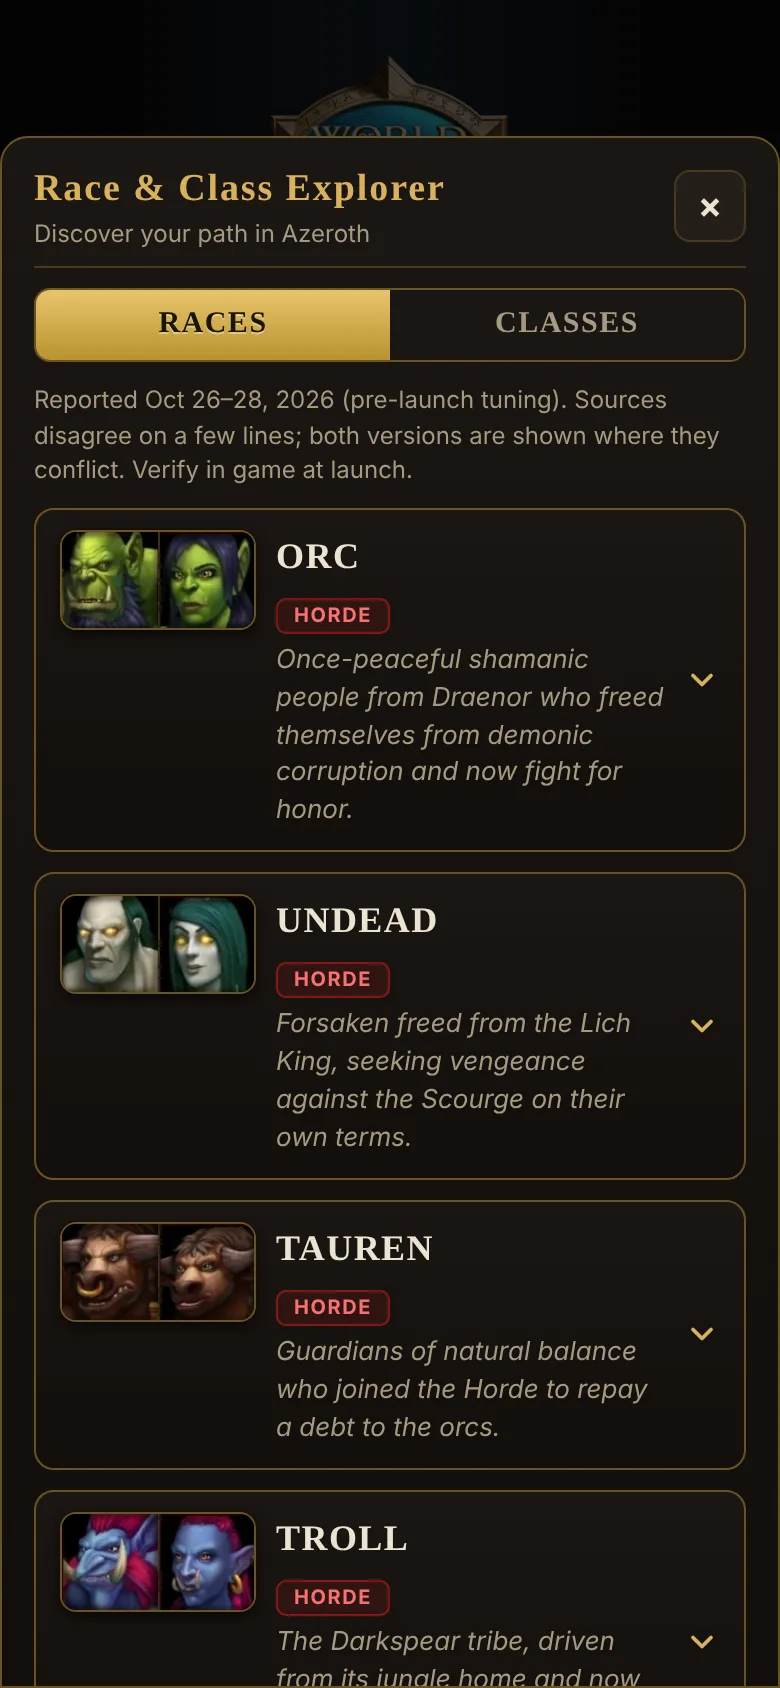
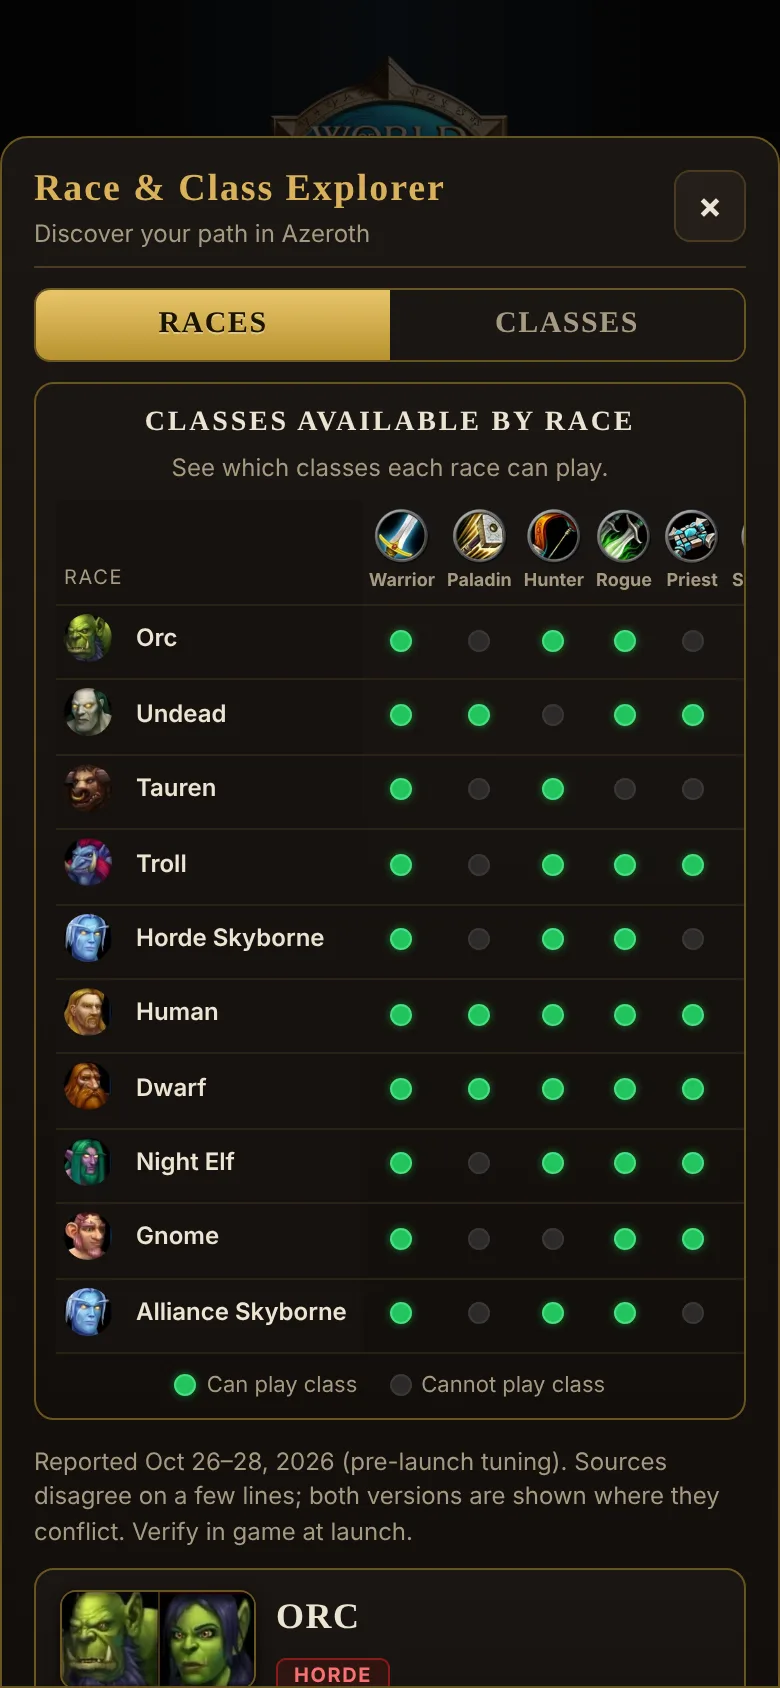
Explorer: race/class availability matrix in both views, role dots on spec rows, race tiles on class cards
Claude-Session: https://claude.ai/code/session_01D5WRtL93QMjdNmrGVJvuEs

diff --git a/DuoPlanner/index.html b/DuoPlanner/index.html
@@ -248,6 +248,39 @@ select,.bar select{background:linear-gradient(180deg,#1f1915,#14100d) url("data:
 .rp img+img{border-left:1px solid #3d2f16}
 .rp.sm img{width:26px;height:26px} .rp.sm{border-radius:5px}
 
+/* ===== Availability matrix ===== */
+.mbox{border:1px solid #6b5422;border-radius:10px;background:linear-gradient(180deg,#1b1612,#120e0b);padding:10px 0 8px;margin-bottom:12px}
+.mbox h3{text-align:center;font-size:14px;letter-spacing:.1em;text-transform:uppercase;color:var(--fg);margin:0 10px 2px}
+.mbox .msub{text-align:center;font-size:12px;color:var(--muted);margin:0 10px 8px}
+.mscroll{overflow-x:auto;-webkit-overflow-scrolling:touch;padding:0 10px}
+.mtx{border-collapse:separate;border-spacing:0;min-width:100%;font-size:12px}
+.mtx th,.mtx td{padding:4px 3px;text-align:center;border-bottom:1px solid #2a2117}
+.mtx thead th{vertical-align:bottom;padding-bottom:6px}
+.mtx thead th img{width:28px;height:28px;border-radius:50%;display:block;margin:0 auto 2px}
+.mtx thead th .lbl{font-size:9px;color:var(--muted);line-height:1.1;display:block;max-width:44px;margin:0 auto;white-space:normal}
+.mtx th.rh{text-align:left;position:sticky;left:0;background:#17120f;z-index:1;white-space:nowrap;padding-left:4px;padding-right:8px;font-weight:600;color:var(--fg)}
+.mtx th.rh img{width:24px;height:24px;border-radius:50%;vertical-align:middle;margin-right:6px}
+.mtx th.rh button,.mtx thead th button{all:unset;cursor:pointer;display:inline-flex;align-items:center;gap:6px}
+.mtx thead th button{flex-direction:column;gap:2px}
+.mtx th.rh button:focus-visible,.mtx thead th button:focus-visible{outline:2px solid var(--gold);border-radius:4px}
+.dot{display:inline-block;width:11px;height:11px;border-radius:50%;background:#2c2a2a;border:1px solid #3a3836}
+.dot.on{background:#22c55e;border-color:#4ade80;box-shadow:0 0 5px #22c55e88}
+.mtx tr.hl th.rh,.mtx tr.hl td{background:#2a2217}
+.mtx td.hl{background:#2a2217}
+.mtx .fsep{border-top:2px solid #4a3a22}
+.mtx td.fsepc,.mtx th.fsepc{border-left:2px solid #4a3a22}
+.mleg{display:flex;justify-content:center;gap:16px;font-size:11px;color:var(--muted);margin-top:8px}
+.mleg span{display:inline-flex;align-items:center;gap:5px}
+.rdot{display:inline-flex;align-items:center;justify-content:center;width:18px;height:18px;border-radius:50%;flex-shrink:0;vertical-align:middle}
+.rdot svg{width:11px;height:11px}
+.rdot.Tank{background:#1e4f8f;color:#bfdbfe} .rdot.Healer{background:#0f6b4b;color:#bbf7d0} .rdot.Melee,.rdot.DPS{background:#8b1f1f;color:#fecaca} .rdot.Ranged{background:#8b1f1f;color:#fecaca}
+.spec .sn{gap:8px}
+
+.rgrid{display:grid;grid-template-columns:repeat(auto-fill,minmax(84px,1fr));gap:6px}
+.rtile{display:flex;flex-direction:column;align-items:center;gap:4px;padding:6px 4px;background:#0f0c0a;border:1px solid #4a3a22;border-radius:8px;color:var(--fg);font:600 11px var(--body);cursor:pointer;text-align:center}
+.rtile img{width:48px;height:48px;border-radius:8px;object-fit:cover}
+.rtile .fb{font-size:8px;padding:1px 5px}
+.rtile:focus-visible{outline:2px solid var(--gold)}
 footer{margin-top:24px;color:var(--muted);font-size:12px;text-align:center}
 </style>
 </head>
@@ -314,6 +347,7 @@ footer{margin-top:24px;color:var(--muted);font-size:12px;text-align:center}
 <div class="mode"><button type="button" id="mDuo" class="on">DUO</button><button type="button" id="mSolo">SOLO</button></div>
 <div class="modal" id="raceModal" hidden><div class="sheet" role="dialog" aria-label="Race and Class Explorer"><div class="head"><div style="flex:1"><h2 style="margin:0">Race &amp; Class Explorer</h2><div class="sub" style="font-size:12px">Discover your path in Azeroth</div></div><button type="button" class="x" id="closeRaces" aria-label="Close">×</button></div>
 <div class="mode xtog"><button type="button" id="xRaces" class="on">RACES</button><button type="button" id="xClasses">CLASSES</button></div>
+<div id="matrixBox"></div>
 <p class="note" id="raceNote"></p>
 <div id="raceList"></div></div></div></div>
 
@@ -535,29 +569,84 @@ const SPECIMG={};Object.keys(SPECS).forEach(s=>{SPECIMG[s]=SPECS[s].img});
 function specPortrait(cls,spec){const n=spec==="Feral Combat"?"Feral Cat Druid":`${spec} ${cls}`;const u=SPECS[n]&&SPECS[n].icon;return u?`<img src="${u}" alt="" loading="lazy" style="--pc:${CLASSCOL[cls]}">`:`<span></span>`}
 function roleBadge(r){const k=r.includes("/")?"Mixed":r;return `<span class="rb ${k}">${r}</span>`}
 function classAccordion(cls,opts){const c=XP.classes[cls];
-  return `<div class="cls"><button type="button" class="xhead" data-acc>${`<img class="ci big" src="${ICON}${CICON[cls]}.webp" alt="" style="--pc:${CLASSCOL[cls]};width:36px;height:36px">`}<h3 style="color:${CLASSCOL[cls]}">${cls}</h3>${c.roles.map(roleBadge).join(" ")}${CHEV}</button><div class="xbody">${opts&&opts.desc?`<p class="cdesc">${c.desc}</p>`:""}${c.specs.map(([n,r,d])=>`<div class="spec">${specPortrait(cls,n)}<div><div class="sn">${short(n)} ${roleBadge(r)}</div><div class="sd">${d}</div></div></div>`).join("")}</div></div>`}
+  return `<div class="cls"><button type="button" class="xhead" data-acc>${`<img class="ci big" src="${ICON}${CICON[cls]}.webp" alt="" style="--pc:${CLASSCOL[cls]};width:36px;height:36px">`}<h3 style="color:${CLASSCOL[cls]}">${cls}</h3>${c.roles.map(roleBadge).join(" ")}${CHEV}</button><div class="xbody">${opts&&opts.desc?`<p class="cdesc">${c.desc}</p>`:""}${c.specs.map(([n,r,d])=>`<div class="spec">${specPortrait(cls,n)}<div><div class="sn">${short(n)} ${roleDots(cls,n,r)}</div><div class="sd">${d}</div></div></div>`).join("")}</div></div>`}
 function raceCard(r,open){
   return `<div class="xcard ${open?"open":""}" data-race="${esc(r.race)}"><button type="button" class="xhead" data-acc>${racePair(r.race)}<div style="flex:1;min-width:0"><h3 style="font-family:var(--display)">${esc(r.race)}</h3><div style="margin:3px 0 4px"><span class="fb ${r.faction}">${r.faction}</span></div><div class="sub">${XP.raceDesc[r.race]||""}</div></div>${CHEV}</button>
   <div class="xbody"><div class="xsec">Racial traits</div><ul class="traits">${r.racials.map(([n,d])=>`<li><b>${esc(n)}</b>${esc(d)}</li>`).join("")}</ul>
   <div class="xsec">Available classes (${r.classes.length})</div>${XP.classOrder.filter(c=>r.classes.includes(c)).map(c=>classAccordion(c)).join("")}</div></div>`}
-function classCard(cls){const c=XP.classes[cls];const races=ALLRACES.filter(r=>r.classes.includes(cls));
-  return `<div class="xcard" data-class="${cls}"><button type="button" class="xhead" data-acc><img class="ci big" src="${ICON}${CICON[cls]}.webp" alt="" style="--pc:${CLASSCOL[cls]}"><div style="flex:1;min-width:0"><h3 style="color:${CLASSCOL[cls]}">${cls}</h3><div style="margin-top:3px">${c.roles.map(roleBadge).join(" ")}</div></div>${CHEV}</button>
-  <div class="xbody"><p class="cdesc">${c.desc}</p><div class="xsec">Specializations</div>${c.specs.map(([n,r,d])=>`<div class="spec">${specPortrait(cls,n)}<div><div class="sn">${short(n)} ${roleBadge(r)}</div><div class="sd">${d}</div></div></div>`).join("")}
-  <div class="xsec">Playable races (${races.length})</div>${races.map(r=>`<button type="button" class="racerow" data-goto="${esc(r.race)}">${racePair(r.race,"sm")}${esc(r.race)}<span class="fb ${r.faction}">${r.faction}</span></button>`).join("")}</div></div>`}
+function classCard(cls,open){const c=XP.classes[cls];const races=ALLRACES.filter(r=>r.classes.includes(cls));
+  return `<div class="xcard ${open?"open":""}" data-class="${cls}"><button type="button" class="xhead" data-acc><img class="ci big" src="${ICON}${CICON[cls]}.webp" alt="" style="--pc:${CLASSCOL[cls]}"><div style="flex:1;min-width:0"><h3 style="color:${CLASSCOL[cls]}">${cls}</h3><div style="margin-top:3px">${c.roles.map(roleBadge).join(" ")}</div></div>${CHEV}</button>
+  <div class="xbody"><p class="cdesc">${c.desc}</p><div class="xsec">Specializations</div>${c.specs.map(([n,r,d])=>`<div class="spec">${specPortrait(cls,n)}<div><div class="sn">${short(n)} ${roleDots(cls,n,r)}</div><div class="sd">${d}</div></div></div>`).join("")}
+  <div class="xsec">Playable races (${races.length})</div><div class="rgrid">${races.map(r=>`<button type="button" class="rtile" data-goto="${esc(r.race)}"><img src="${RACEIMG}${RIMG[r.race]}-m.webp" alt=""><span>${shortRace(r.race)}</span><i class="fb ${r.faction}">${r.faction}</i></button>`).join("")}</div></div></div>`}
+const RDSVG={Tank:'<svg viewBox="0 0 24 24" fill="currentColor"><path d="M12 2l8 3v6c0 5-3.5 9.5-8 11-4.5-1.5-8-6-8-11V5z"/></svg>',Healer:'<svg viewBox="0 0 24 24" fill="currentColor"><path d="M9 3h6v6h6v6h-6v6H9v-6H3V9h6z"/></svg>',Melee:'<svg viewBox="0 0 24 24" fill="none" stroke="currentColor" stroke-width="3" stroke-linecap="round"><path d="M4 20L18 6M15 6h3v3M6 16l2 2"/></svg>',Ranged:'<svg viewBox="0 0 24 24" fill="none" stroke="currentColor" stroke-width="2.6" stroke-linecap="round"><path d="M4 20L20 4M20 4h-7M20 4v7M4 20c6-1 10-5 11-11"/></svg>'};
+function specRole(cls,spec,role){ if(role==="Healer"||role==="Tank")return [role]; if(role.includes("/"))return ["Tank","Melee"]; const n=`${spec} ${cls}`;return [SPECS[n]?SPECS[n].role:"Melee"]}
+function roleDots(cls,spec,role){return specRole(cls,spec,role).map(r=>`<span class="rdot ${r}" title="${r}">${RDSVG[r]}</span>`).join("")}
+function raceIcon(r,sz){const k=RIMG[r];return `<img src="${RACEIMG}${k}-m.webp" alt="" loading="lazy">`}
+function shortRace(r){return r.replace("Skyborne (Windshaper)","Horde Skyborne").replace("Skyborne (High Order)","Alliance Skyborne")}
+function can(r,c){return r.classes.includes(c)}
+function matrix(mode){
+  if(mode==="races"){
+    const head=XP.classOrder.map(c=>`<th><button type="button" data-mclass="${c}" aria-label="${c}"><img src="${ICON}${CICON[c]}.webp" alt=""><span class="lbl">${c}</span></button></th>`).join("");
+    const rows=ALLRACES.map((r,i)=>`<tr data-mrace="${esc(r.race)}" class="${i===RACES.Horde.length?"fsep":""}"><th class="rh"><button type="button" data-mrace="${esc(r.race)}">${raceIcon(r.race)}${shortRace(r.race)}</button></th>${XP.classOrder.map(c=>`<td data-mclass="${c}"><span class="dot ${can(r,c)?"on":""}" aria-label="${can(r,c)?"can":"cannot"} play ${c}"></span></td>`).join("")}</tr>`).join("");
+    return `<div class="mbox"><h3>Classes available by race</h3><p class="msub">See which classes each race can play.</p><div class="mscroll"><table class="mtx"><thead><tr><th class="rh" style="font-weight:400;color:var(--muted);font-size:10px;letter-spacing:.08em">RACE</th>${head}</tr></thead><tbody>${rows}</tbody></table></div><div class="mleg"><span><i class="dot on"></i>Can play class</span><span><i class="dot"></i>Cannot play class</span></div></div>`;
+  }
+  const head=ALLRACES.map((r,i)=>`<th class="${i===RACES.Horde.length?"fsepc":""}"><button type="button" data-mrace="${esc(r.race)}" aria-label="${esc(r.race)}">${raceIcon(r.race)}<span class="lbl">${shortRace(r.race)}</span></button></th>`).join("");
+  const rows=XP.classOrder.map(c=>`<tr data-mclass="${c}"><th class="rh"><button type="button" data-mclass="${c}"><img src="${ICON}${CICON[c]}.webp" alt="">${c}</button></th>${ALLRACES.map((r,i)=>`<td class="${i===RACES.Horde.length?"fsepc":""}">${can(r,c)?`<button type="button" data-goto="${esc(r.race)}" aria-label="${esc(r.race)} can play ${c}" style="all:unset;cursor:pointer;display:inline-flex"><span class="dot on"></span></button>`:`<span class="dot" aria-label="${esc(r.race)} cannot play ${c}"></span>`}</td>`).join("")}</tr>`).join("");
+  return `<div class="mbox"><h3>Races that can play each class</h3><p class="msub">See which races can choose each class.</p><div class="mscroll"><table class="mtx"><thead><tr><th class="rh" style="font-weight:400;color:var(--muted);font-size:10px;letter-spacing:.08em">CLASS</th>${head}</tr></thead><tbody>${rows}</tbody></table></div><div class="mleg"><span><i class="dot on"></i>Race can play this class</span><span><i class="dot"></i>Cannot play this class</span></div></div>`;
+}
 state.xview="races";
-function renderExplorer(openRace){
+function renderExplorer(openRace,openClass){
   const list=document.getElementById("raceList");
+  document.getElementById("matrixBox").innerHTML=matrix(state.xview);
   document.getElementById("xRaces").classList.toggle("on",state.xview==="races");document.getElementById("xClasses").classList.toggle("on",state.xview!=="races");
   document.getElementById("raceNote").textContent=state.xview==="races"?RACES.asof:"Nine classes, 27 specializations. Tap a class for its specs and every race that can play it; tap a race to jump to its racial traits.";
   list.className="grid";
-  list.innerHTML=state.xview==="races"?ALLRACES.map(r=>raceCard(r,r.race===openRace)).join(""):XP.classOrder.map(classCard).join("");
-  if(openRace){const el=list.querySelector(`[data-race="${CSS.escape(openRace)}"]`);if(el)el.scrollIntoView({block:"start"})}
+  list.innerHTML=state.xview==="races"?ALLRACES.map(r=>raceCard(r,r.race===openRace)).join(""):XP.classOrder.map(c=>classCard(c,c===openClass)).join("");
+  const tgt=openRace?list.querySelector(`[data-race="${CSS.escape(openRace)}"]`):openClass?list.querySelector(`[data-class="${CSS.escape(openClass)}"]`):null;
+  if(tgt)tgt.scrollIntoView({block:"start",behavior:"smooth"});
 }
+document.getElementById("matrixBox").addEventListener("click",e=>{
+  const g=e.target.closest("[data-goto]");if(g){state.xview="races";renderExplorer(g.dataset.goto);return}
+  const rb=e.target.closest("button[data-mrace]");if(rb){if(state.xview==="races"){const row=rb.closest("tr");document.querySelectorAll(".mtx tr.hl").forEach(x=>x.classList.remove("hl"));row.classList.add("hl");const card=document.querySelector(`#raceList [data-race="${CSS.escape(rb.dataset.mrace)}"]`);if(card){card.classList.add("open");card.scrollIntoView({block:"start",behavior:"smooth"})}}else{state.xview="races";renderExplorer(rb.dataset.mrace)}return}
+  const cb=e.target.closest("button[data-mclass]");if(cb){if(state.xview==="classes"){const row=cb.closest("tr");document.querySelectorAll(".mtx tr.hl").forEach(x=>x.classList.remove("hl"));row.classList.add("hl");const card=document.querySelector(`#raceList [data-class="${CSS.escape(cb.dataset.mclass)}"]`);if(card){card.classList.add("open");card.scrollIntoView({block:"start",behavior:"smooth"})}}else{document.querySelectorAll(".mtx td.hl").forEach(x=>x.classList.remove("hl"));document.querySelectorAll(`.mtx td[data-mclass="${CSS.escape(cb.dataset.mclass)}"]`).forEach(x=>x.classList.add("hl"));if(cb.dataset.again){state.xview="classes";renderExplorer(null,cb.dataset.mclass)}else{cb.dataset.again="1";setTimeout(()=>{delete cb.dataset.again},2500)}}}
+});
 document.getElementById("raceList").addEventListener("click",e=>{
-  const go=e.target.closest("[data-goto]");if(go){state.xview="races";renderExplorer(go.dataset.goto);return}
+  const go=e.target.closest("[data-goto]");if(go){const RDSVG={Tank:'<svg viewBox="0 0 24 24" fill="currentColor"><path d="M12 2l8 3v6c0 5-3.5 9.5-8 11-4.5-1.5-8-6-8-11V5z"/></svg>',Healer:'<svg viewBox="0 0 24 24" fill="currentColor"><path d="M9 3h6v6h6v6h-6v6H9v-6H3V9h6z"/></svg>',Melee:'<svg viewBox="0 0 24 24" fill="none" stroke="currentColor" stroke-width="3" stroke-linecap="round"><path d="M4 20L18 6M15 6h3v3M6 16l2 2"/></svg>',Ranged:'<svg viewBox="0 0 24 24" fill="none" stroke="currentColor" stroke-width="2.6" stroke-linecap="round"><path d="M4 20L20 4M20 4h-7M20 4v7M4 20c6-1 10-5 11-11"/></svg>'};
+function specRole(cls,spec,role){ if(role==="Healer"||role==="Tank")return [role]; if(role.includes("/"))return ["Tank","Melee"]; const n=`${spec} ${cls}`;return [SPECS[n]?SPECS[n].role:"Melee"]}
+function roleDots(cls,spec,role){return specRole(cls,spec,role).map(r=>`<span class="rdot ${r}" title="${r}">${RDSVG[r]}</span>`).join("")}
+function raceIcon(r,sz){const k=RIMG[r];return `<img src="${RACEIMG}${k}-m.webp" alt="" loading="lazy">`}
+function shortRace(r){return r.replace("Skyborne (Windshaper)","Horde Skyborne").replace("Skyborne (High Order)","Alliance Skyborne")}
+function can(r,c){return r.classes.includes(c)}
+function matrix(mode){
+  if(mode==="races"){
+    const head=XP.classOrder.map(c=>`<th><button type="button" data-mclass="${c}" aria-label="${c}"><img src="${ICON}${CICON[c]}.webp" alt=""><span class="lbl">${c}</span></button></th>`).join("");
+    const rows=ALLRACES.map((r,i)=>`<tr data-mrace="${esc(r.race)}" class="${i===RACES.Horde.length?"fsep":""}"><th class="rh"><button type="button" data-mrace="${esc(r.race)}">${raceIcon(r.race)}${shortRace(r.race)}</button></th>${XP.classOrder.map(c=>`<td data-mclass="${c}"><span class="dot ${can(r,c)?"on":""}" aria-label="${can(r,c)?"can":"cannot"} play ${c}"></span></td>`).join("")}</tr>`).join("");
+    return `<div class="mbox"><h3>Classes available by race</h3><p class="msub">See which classes each race can play.</p><div class="mscroll"><table class="mtx"><thead><tr><th class="rh" style="font-weight:400;color:var(--muted);font-size:10px;letter-spacing:.08em">RACE</th>${head}</tr></thead><tbody>${rows}</tbody></table></div><div class="mleg"><span><i class="dot on"></i>Can play class</span><span><i class="dot"></i>Cannot play class</span></div></div>`;
+  }
+  const head=ALLRACES.map((r,i)=>`<th class="${i===RACES.Horde.length?"fsepc":""}"><button type="button" data-mrace="${esc(r.race)}" aria-label="${esc(r.race)}">${raceIcon(r.race)}<span class="lbl">${shortRace(r.race)}</span></button></th>`).join("");
+  const rows=XP.classOrder.map(c=>`<tr data-mclass="${c}"><th class="rh"><button type="button" data-mclass="${c}"><img src="${ICON}${CICON[c]}.webp" alt="">${c}</button></th>${ALLRACES.map((r,i)=>`<td class="${i===RACES.Horde.length?"fsepc":""}">${can(r,c)?`<button type="button" data-goto="${esc(r.race)}" aria-label="${esc(r.race)} can play ${c}" style="all:unset;cursor:pointer;display:inline-flex"><span class="dot on"></span></button>`:`<span class="dot" aria-label="${esc(r.race)} cannot play ${c}"></span>`}</td>`).join("")}</tr>`).join("");
+  return `<div class="mbox"><h3>Races that can play each class</h3><p class="msub">See which races can choose each class.</p><div class="mscroll"><table class="mtx"><thead><tr><th class="rh" style="font-weight:400;color:var(--muted);font-size:10px;letter-spacing:.08em">CLASS</th>${head}</tr></thead><tbody>${rows}</tbody></table></div><div class="mleg"><span><i class="dot on"></i>Race can play this class</span><span><i class="dot"></i>Cannot play this class</span></div></div>`;
+}
+state.xview="races";renderExplorer(go.dataset.goto);return}
   const h=e.target.closest("[data-acc]");if(!h)return;h.parentElement.classList.toggle("open");
 });
-document.getElementById("xRaces").onclick=()=>{state.xview="races";renderExplorer()};
+document.getElementById("xRaces").onclick=()=>{const RDSVG={Tank:'<svg viewBox="0 0 24 24" fill="currentColor"><path d="M12 2l8 3v6c0 5-3.5 9.5-8 11-4.5-1.5-8-6-8-11V5z"/></svg>',Healer:'<svg viewBox="0 0 24 24" fill="currentColor"><path d="M9 3h6v6h6v6h-6v6H9v-6H3V9h6z"/></svg>',Melee:'<svg viewBox="0 0 24 24" fill="none" stroke="currentColor" stroke-width="3" stroke-linecap="round"><path d="M4 20L18 6M15 6h3v3M6 16l2 2"/></svg>',Ranged:'<svg viewBox="0 0 24 24" fill="none" stroke="currentColor" stroke-width="2.6" stroke-linecap="round"><path d="M4 20L20 4M20 4h-7M20 4v7M4 20c6-1 10-5 11-11"/></svg>'};
+function specRole(cls,spec,role){ if(role==="Healer"||role==="Tank")return [role]; if(role.includes("/"))return ["Tank","Melee"]; const n=`${spec} ${cls}`;return [SPECS[n]?SPECS[n].role:"Melee"]}
+function roleDots(cls,spec,role){return specRole(cls,spec,role).map(r=>`<span class="rdot ${r}" title="${r}">${RDSVG[r]}</span>`).join("")}
+function raceIcon(r,sz){const k=RIMG[r];return `<img src="${RACEIMG}${k}-m.webp" alt="" loading="lazy">`}
+function shortRace(r){return r.replace("Skyborne (Windshaper)","Horde Skyborne").replace("Skyborne (High Order)","Alliance Skyborne")}
+function can(r,c){return r.classes.includes(c)}
+function matrix(mode){
+  if(mode==="races"){
+    const head=XP.classOrder.map(c=>`<th><button type="button" data-mclass="${c}" aria-label="${c}"><img src="${ICON}${CICON[c]}.webp" alt=""><span class="lbl">${c}</span></button></th>`).join("");
+    const rows=ALLRACES.map((r,i)=>`<tr data-mrace="${esc(r.race)}" class="${i===RACES.Horde.length?"fsep":""}"><th class="rh"><button type="button" data-mrace="${esc(r.race)}">${raceIcon(r.race)}${shortRace(r.race)}</button></th>${XP.classOrder.map(c=>`<td data-mclass="${c}"><span class="dot ${can(r,c)?"on":""}" aria-label="${can(r,c)?"can":"cannot"} play ${c}"></span></td>`).join("")}</tr>`).join("");
+    return `<div class="mbox"><h3>Classes available by race</h3><p class="msub">See which classes each race can play.</p><div class="mscroll"><table class="mtx"><thead><tr><th class="rh" style="font-weight:400;color:var(--muted);font-size:10px;letter-spacing:.08em">RACE</th>${head}</tr></thead><tbody>${rows}</tbody></table></div><div class="mleg"><span><i class="dot on"></i>Can play class</span><span><i class="dot"></i>Cannot play class</span></div></div>`;
+  }
+  const head=ALLRACES.map((r,i)=>`<th class="${i===RACES.Horde.length?"fsepc":""}"><button type="button" data-mrace="${esc(r.race)}" aria-label="${esc(r.race)}">${raceIcon(r.race)}<span class="lbl">${shortRace(r.race)}</span></button></th>`).join("");
+  const rows=XP.classOrder.map(c=>`<tr data-mclass="${c}"><th class="rh"><button type="button" data-mclass="${c}"><img src="${ICON}${CICON[c]}.webp" alt="">${c}</button></th>${ALLRACES.map((r,i)=>`<td class="${i===RACES.Horde.length?"fsepc":""}">${can(r,c)?`<button type="button" data-goto="${esc(r.race)}" aria-label="${esc(r.race)} can play ${c}" style="all:unset;cursor:pointer;display:inline-flex"><span class="dot on"></span></button>`:`<span class="dot" aria-label="${esc(r.race)} cannot play ${c}"></span>`}</td>`).join("")}</tr>`).join("");
+  return `<div class="mbox"><h3>Races that can play each class</h3><p class="msub">See which races can choose each class.</p><div class="mscroll"><table class="mtx"><thead><tr><th class="rh" style="font-weight:400;color:var(--muted);font-size:10px;letter-spacing:.08em">CLASS</th>${head}</tr></thead><tbody>${rows}</tbody></table></div><div class="mleg"><span><i class="dot on"></i>Race can play this class</span><span><i class="dot"></i>Cannot play this class</span></div></div>`;
+}
+state.xview="races";renderExplorer()};
 document.getElementById("xClasses").onclick=()=>{state.xview="classes";renderExplorer()};
 function renderFaction(){renderExplorer()}
 const modal=document.getElementById("raceModal");
